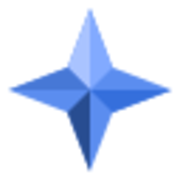
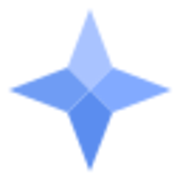
fav

diff --git a/_includes/head.html b/_includes/head.html
@@ -8,9 +8,9 @@
   <link rel="preload" href="{{ "/assets/fonts/InterVariable.woff2" | relative_url }}" as="font" type="font/woff2" crossorigin>
   <link rel="preload" href="{{ "/assets/fonts/JetBrainsMono-Regular.woff2" | relative_url }}" as="font" type="font/woff2" crossorigin>
   <link rel="stylesheet" href="{{ "/assets/main.css" | relative_url }}">
-  <link rel="icon" href="{{ "/assets/favicon.svg" | relative_url }}?v=star-a" type="image/svg+xml">
-  <link rel="icon" href="{{ "/assets/favicon-32.png" | relative_url }}?v=star-a" type="image/png" sizes="32x32">
-  <link rel="apple-touch-icon" href="{{ "/assets/apple-touch-icon.png" | relative_url }}?v=star-a" sizes="180x180">
+  <link rel="icon" href="{{ "/assets/favicon.svg" | relative_url }}?v=star-simple" type="image/svg+xml">
+  <link rel="icon" href="{{ "/assets/favicon-32.png" | relative_url }}?v=star-simple" type="image/png" sizes="32x32">
+  <link rel="apple-touch-icon" href="{{ "/assets/apple-touch-icon.png" | relative_url }}?v=star-simple" sizes="180x180">
   <meta name="theme-color" content="#080b11">
 
   {% unless page.image %}
